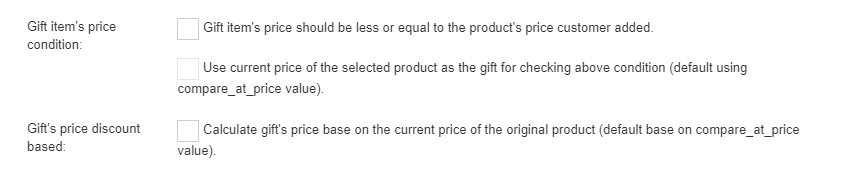
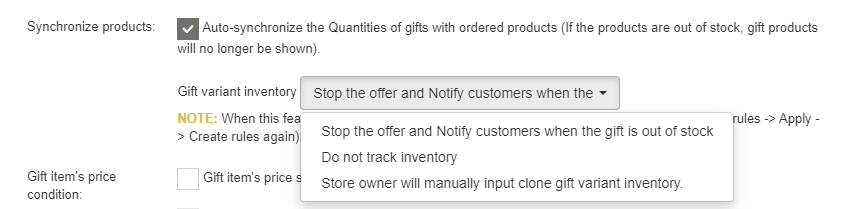
GitBook: [master] 16 pages and 3 assets modified

diff --git a/advance-features/setting-page.md b/advance-features/setting-page.md
@@ -8,7 +8,7 @@ Enable this feature if you want our application working seamlessly with Oberlo o
 
 ### 2. Synchronize products
 
-![](../.gitbook/assets/image%20%2815%29.png)
+![](../.gitbook/assets/image%20%2816%29.png)
 
 All gift items cloned by our application will not be track inventory by default. If you need to synchronize inventory between the clone gift item and the orginal variant, please enable this feature then select the way of our application action with iventory of orignal product.
 
@@ -16,9 +16,25 @@ All gift items cloned by our application will not be track inventory by default.
 * Do not track inventory: Just decrease inventory of origianl product whenever orders have any cloned gift variants.
 * Store owner will manually input cloned gift variant inventory: After created an offers, please go to each cloned gift item then input inventory for them.
 
-### 3. How the price of Gift item is calculated and using
+### 3. What is the original price of Gift item is used for comparing
 
-![](../.gitbook/assets/image%20%2816%29.png)
+![](../.gitbook/assets/image%20%2817%29.png)
+
+For the _**Gift item's price condition**_ we have 2 options for comparing the minimun price of products \(not gift item\) customer added with the original product's price of gift item. e.g: The minimum of all products added is **$47**. The prices of original product \(used for cloning gift item\) are: _compare\_at\_price_ \(**$50**\) and current _price_ \(**$45**\)
+
+* If none of those option is enabled so the gift will be added if offer rule satisfied.
+* If you enabled "_Gift item's price should be less or equal to the product's price customer added_" only then the gift item will not be added because original's price of gift item is **$50**
+* If you enabled both "_Gift item's price should be less or equal to the product's price customer added_" and "_Use current price of the selected product as the gift for checking above condition \(default using compare\_at\_price value\)_" so the gift will be added because of the original's price of gift item used to compare is **$45**
+
+### 4. How the price of Gift item is calculated
+
+If your offer is not to give a free gift, we will calculate the price of cloned item base on discount value and the compare\_at\_price of original product. If you want we calculate base on the current price of original product, please enable this feature:
+
+![](../.gitbook/assets/image%20%2815%29.png)
+
+5. 
+
+
 
 
 
